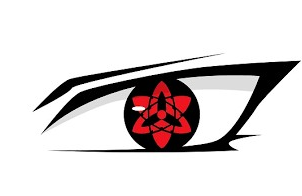
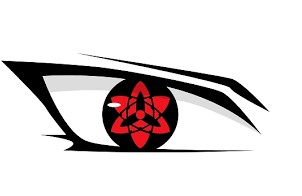
Updated
SoundPlayer.js
soundPlayer.css

Changed region(s): [[0.0, 0.2755, 1.0, 0.7959]]

diff --git a/src/main/design/soundPlayer.css b/src/main/design/soundPlayer.css
@@ -21,6 +21,10 @@
     max-height: 70px;
 }
 
+.soundPlayerAnimation {
+    display: flex;
+}
+
 @keyframes spAnimationStart {
     0% {
         transform: translateX(0);
@@ -85,6 +89,15 @@
     scale: 1.5;
 }
 
+.eyeRoller:active {
+    transition: .3s;
+    cursor: pointer;
+    color: #ff0000;
+    padding: 30px;
+    border-radius: 100%;
+    scale: 1.5;
+}
+
 .musicPlayerIconsMain {
     z-index: 1;
     background: red;
@@ -92,7 +105,7 @@
 
 .musicPlayerIcons {
     transition: all .3s ease-in-out;
-    border-radius: 100%;
+    border-radius: 25%;
     padding: 20px;
 }
 
@@ -103,42 +116,23 @@
     color: #ff0000;
 }
 
-/* YourComponent.css */
+@media (width < 800px) {
 
-.containerSP {
-    background: red;
-    position: relative;
-    width: 400px; /* Set the container width as needed */
-}
+    .eyeRoller:hover {
+        transition: .3s;
+        cursor: pointer;
+        color: #ff0000;
+        padding: 0;
+        border-radius: 100%;
+        scale: 1;
+    }
 
-.circle {
-    width: 50px;
-    height: 50px;
-    background-color: blue;
-    border-radius: 50%;
-    position: absolute;
-    left: 0;
-    top: 50%;
-    transform: translateY(-50%);
-    cursor: pointer;
-    transition: left 0.5s ease;
-}
-
-.contentSP {
-    position: absolute;
-    top: 50%;
-    /*left: 200px;*/
-    transform: translateY(-50%);
-    opacity: 0;
-    transition: opacity 0.5s ease;
-}
-
-.containerSP.content-visible .circle {
-    left: 200px;
-    background: red;
-}
-
-.containerSP.content-visible .contentSP {
-    background: red;
-    opacity: 1;
+    .eyeRoller:active {
+        transition: .3s;
+        cursor: pointer;
+        color: #ff0000;
+        padding: 30px;
+        border-radius: 100%;
+        scale: 1.5;
+    }
 }

diff --git a/src/main/components/other/SoundPlayer.js b/src/main/components/other/SoundPlayer.js
@@ -2,14 +2,14 @@ import "../../design/soundPlayer.css";
 import Sound from 'react-sound';
 import song1 from "../../music/song1.mp3";
 import song2 from "../../music/song2.mp3";
-import leftEye from "../../assets/soundPlayerImage/2.png";
-import rightEye from "../../assets/soundPlayerImage/1.png";
+import leftEye from "../../assets/soundPlayerImage/1.png";
+import rightEye from "../../assets/soundPlayerImage/2.png";
 import {useState} from "react";
 import {FiPlayCircle as PlayIcon} from "react-icons/fi";
 import {TbPlayerStop as StopIcon} from "react-icons/tb";
 import {BsMusicNoteBeamed as MusicIcon} from "react-icons/bs";
 
-const SoundPlayer = () => {
+export default function SoundPlayer() {
     const [isPlaying, setIsPlaying] = useState(false);
     const [hideMusic, setHideMusic] = useState(true);
     const [currentMusic, setCurrentMusic] = useState(0);
@@ -34,7 +34,8 @@ const SoundPlayer = () => {
     return (
         <div className={'soundSpace'}>
             <div className={'musicPlayer'}>
-                <div className={`soundPlayerAnimation ${hideMusic ? 'soundPlayerAnimationStart' : 'soundPlayerAnimationStop'}`}>
+                <div
+                    className={`soundPlayerAnimation ${hideMusic ? 'soundPlayerAnimationStart' : 'soundPlayerAnimationStop'}`}>
                     <img src={leftEye} alt={'eye'} className={'eyeRoller'} onClick={choosePreviousSong}/>
                     {
                         !isPlaying ?
@@ -60,5 +61,3 @@ const SoundPlayer = () => {
         </div>
     )
 }
-
-export default SoundPlayer;
